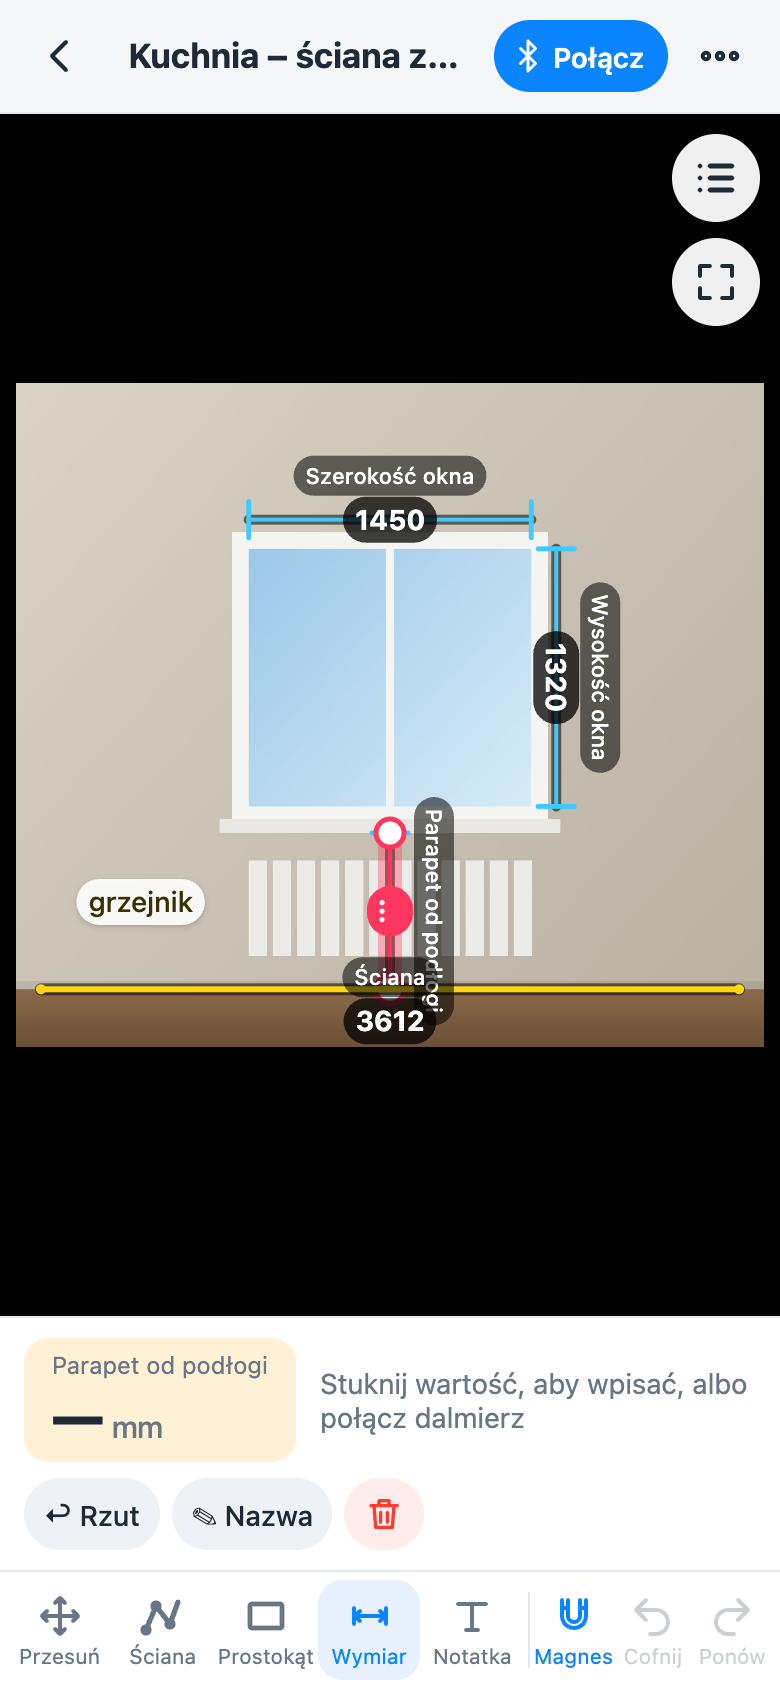
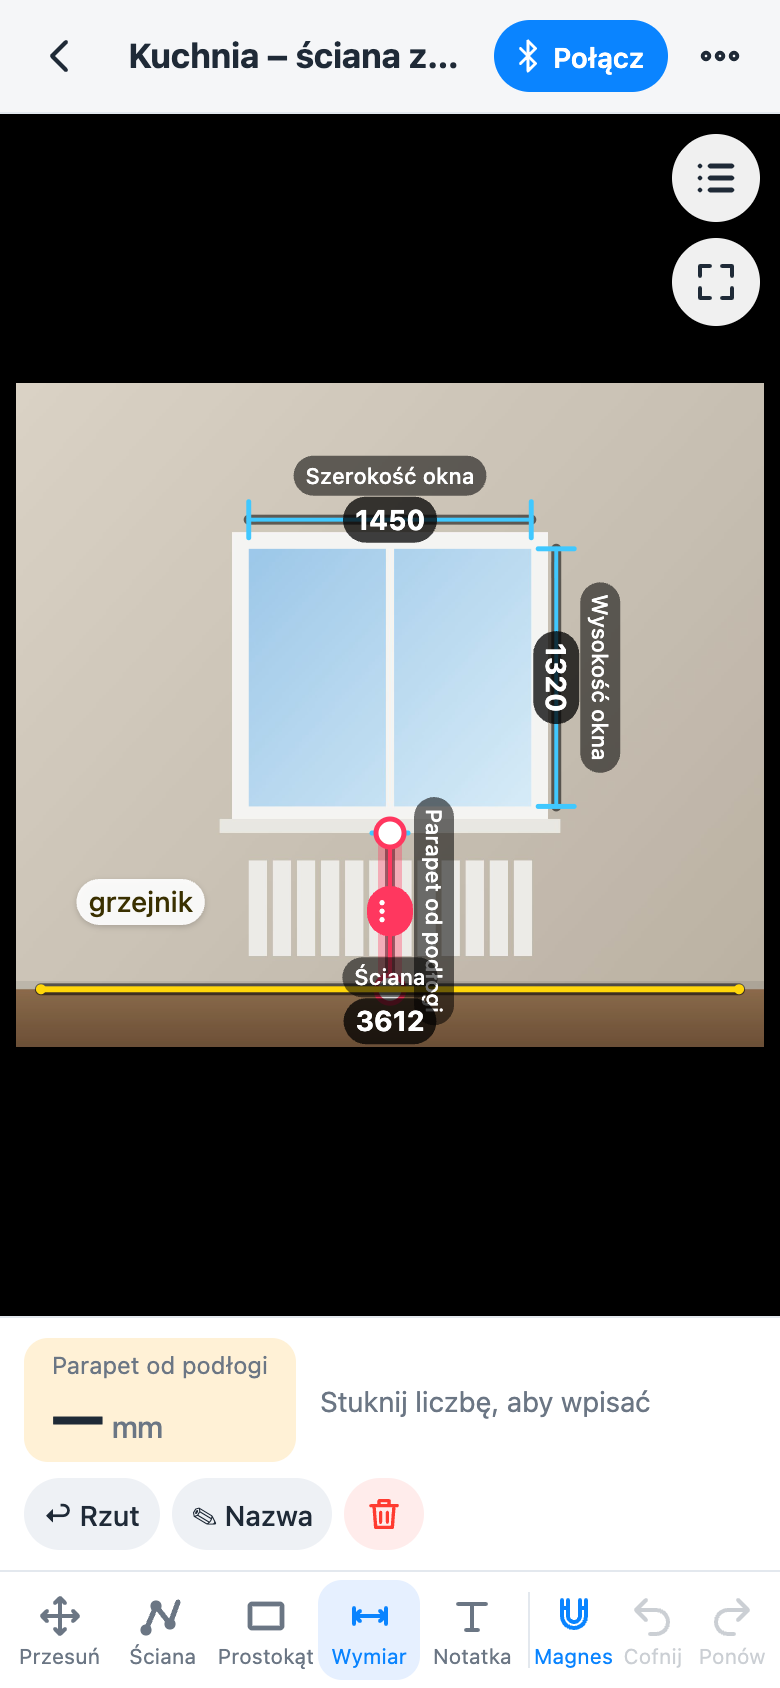
feat: compact editor panel on small screens

Changed region(s): [[0.4, 0.8009, 0.8615, 0.8626], [0.8923, 0.8009, 0.9538, 0.8318]]

diff --git a/js/app.js b/js/app.js
@@ -11,7 +11,7 @@ import { exportBackup, importBackup, pickFile } from './backup.js';
 import { $, h, toast, ask, confirmBox, menu, sheet, beep, shareFile } from './ui.js';
 import { seedDemo } from './demo.js';
 
-export const APP_VERSION = '1.1.0';
+export const APP_VERSION = '1.1.1';
 
 const app = $('#app');
 const settings = { unit: 'mm', sound: true, sim: false };
@@ -452,6 +452,7 @@ async function showProject(id) {
   window.dalmierzEditor = ed; // Debug handle for console and tests.
 
   let saveTimer = null, thumbTimer = null, deleted = false;
+  let tipOpen = false; // full tool tip in the panel
   const save = async () => {
     p.updatedAt = Date.now();
     await db.put('projects', p);
@@ -645,31 +646,32 @@ async function showProject(id) {
             <small>${esc(e.name || `Odcinek ${idx}`)}</small>
             <b>${e.v ? fmt(e.v, settings.unit) : '—'}<i>${settings.unit}</i></b>
           </button>
-          <div class="p-hint ${live ? 'live' : ''}">${live ? '<span class="pulse"></span>Naciśnij pomiar na dalmierzu' : 'Stuknij wartość, aby wpisać, albo połącz dalmierz'}</div>
+          <div class="p-hint ${live ? 'live' : ''}">${live ? '<span class="pulse"></span>Zmierz dalmierzem' : 'Stuknij liczbę, aby wpisać'}</div>
           ${!ed.photo && s.shape.style !== 'dim' ? `<button class="cam-btn ${e.photo ? 'on' : ''}" data-wall-photo aria-label="Zdjęcie ściany">${ICON.camera}<small>${e.photo ? 'Zdjęcie' : '+ Zdjęcie'}</small></button>` : ''}
         </div>
         <div class="p-actions">
           ${readChips}
           ${parent ? `<button class="chip" data-parent>↩ Rzut</button>` : ''}
           ${!ed.photo && s.shape.style !== 'dim' ? '<button class="chip" data-add-mark>+ Punkt</button>' : ''}
-          <button class="chip" data-edge-name>${e.name ? '✎ Nazwa' : '+ Nazwa'}</button>
-          ${!ed.photo && edgeCount(s.shape) > 1 ? `<button class="chip" data-shape-name>${s.shape.name ? esc(s.shape.name) : '+ Nazwa kształtu'}</button>` : ''}
+          <button class="chip" data-edge-name>${e.name || s.shape.name ? '✎ Nazwa' : '+ Nazwa'}</button>
           ${!ed.photo && edgeCount(s.shape) > 1 ? '<button class="chip" data-fitshape>Dopasuj</button>' : ''}
           <button class="chip danger icon" data-delmenu aria-label="Usuń">${ICON.trash}</button>
         </div>
         ${m ? `<div class="p-metrics">Pole <b>${m.approx ? '≈ ' : ''}${fmtArea(m.area)}</b> · Obwód <b>${fmt(m.perimeter, settings.unit, true)}</b>
           ${warnings(s.shape, m)}</div>` : ''}`;
     } else {
-      const hints = {
-        hand: 'Przeciągnij, aby przesunąć widok. Zaznacz kształt, potem przeciągnij go albo jego punkt.',
-        line: 'Przeciągnij palcem, aby narysować ścianę. Zacznij od końca linii, aby rysować dalej. Połącz z początkiem, aby zamknąć pomieszczenie.',
-        rect: 'Przeciągnij po skosie, aby narysować prostokąt. Potem przesuń rogi.',
-        dim: 'Przeciągnij, aby dodać linię wymiaru, np. wysokość okna albo przekątną.',
-        text: 'Stuknij w miejsce na rysunku, aby dodać notatkę.',
+      // Short tip in one line. Tap it to see the full text.
+      const tips = {
+        hand: ['Przeciągnij: przesuń widok lub kształt', 'Przeciągnij, aby przesunąć widok. Zaznacz kształt, potem przeciągnij go albo jego punkt.'],
+        line: ['Przeciągnij palcem, aby narysować ścianę', 'Zacznij od końca linii, aby rysować dalej. Połącz z początkiem, aby zamknąć pomieszczenie.'],
+        rect: ['Przeciągnij po skosie: prostokąt', 'Potem przesuń rogi.'],
+        dim: ['Przeciągnij: linia wymiaru', 'Np. wysokość okna albo przekątna.'],
+        text: ['Stuknij w rysunek, aby dodać notatkę', ''],
       };
+      const [short, more] = tips[ed.tool];
       const recent = readings.slice(0, 4);
       html = `${parent ? `<div class="p-actions top"><button class="chip" data-parent>↩ Rzut: ${esc(parent.name)}</button></div>` : ''}
-        <p class="p-tip">${hints[ed.tool]} Dwa palce: przesuń i powiększ.</p>
+        <button class="p-tip one ${tipOpen ? 'open' : ''}" data-tip><span>${short}${tipOpen ? `. ${more ? `${more} ` : ''}Dwa palce: przesuń i powiększ.` : ''}</span><i>${tipOpen ? '×' : 'i'}</i></button>
         ${recent.length ? `<div class="p-actions"><small class="muted">Odczyty:</small>${recent.map((r) => `<span class="chip ghost">${fmt(r.mm, settings.unit, true)}</span>`).join('')}</div>` : ''}`;
     }
     panel.innerHTML = html;
@@ -716,13 +718,24 @@ async function showProject(id) {
       if (v === 'shape') ed.deleteShape();
     });
     panel.querySelector('[data-edit-text]')?.addEventListener('click', () => editText(s.shape));
+    panel.querySelector('[data-tip]')?.addEventListener('click', () => { tipOpen = !tipOpen; renderPanel(); });
+    // One chip for both names: wall name and shape (room) name.
     panel.querySelector('[data-edge-name]')?.addEventListener('click', async () => {
-      const n = await ask('Nazwa odcinka', s.shape.edges[s.edge].name, { placeholder: 'np. ściana z oknem', suggestions: ['Szerokość', 'Wysokość', 'Głębokość', 'Okno', 'Drzwi', 'Wnęka', 'Przekątna'] });
-      if (n != null) ed.renameEdge(n);
-    });
-    panel.querySelector('[data-shape-name]')?.addEventListener('click', async () => {
-      const n = await ask('Nazwa kształtu', s.shape.name || '', { placeholder: 'np. Kuchnia', suggestions: NAME_HINTS });
-      if (n != null) ed.renameShape(n);
+      const e = s.shape.edges[s.edge];
+      let what = 'edge';
+      if (!ed.photo && edgeCount(s.shape) > 1) {
+        what = await menu('Nazwa', [
+          { label: 'Nazwa ściany', value: 'edge', hint: e.name || 'brak' },
+          { label: 'Nazwa pomieszczenia', value: 'shape', hint: s.shape.name || 'brak' },
+        ]);
+      }
+      if (what === 'edge') {
+        const n = await ask('Nazwa odcinka', e.name, { placeholder: 'np. ściana z oknem', suggestions: ['Szerokość', 'Wysokość', 'Głębokość', 'Okno', 'Drzwi', 'Wnęka', 'Przekątna'] });
+        if (n != null) ed.renameEdge(n);
+      } else if (what === 'shape') {
+        const n = await ask('Nazwa pomieszczenia', s.shape.name || '', { placeholder: 'np. Kuchnia', suggestions: NAME_HINTS });
+        if (n != null) ed.renameShape(n);
+      }
     });
     panel.querySelector('[data-fitshape]')?.addEventListener('click', () => {
       if (ed.fitSelectedShape()) toast('Kształt dopasowany do wymiarów', 'ok');

diff --git a/css/app.css b/css/app.css
@@ -107,7 +107,7 @@ small { display: block; color: var(--muted); font-size: 13px; }
 
 .panel {
   background: var(--card); border-top: 1px solid var(--line); padding: 10px 12px;
-  min-height: 64px; max-height: 40vh; overflow-y: auto; z-index: 4;
+  min-height: 44px; max-height: 40vh; overflow-y: auto; z-index: 4;
 }
 .p-row { display: flex; align-items: center; gap: 12px; }
 .p-value { text-align: left; background: #f1f4f8; border-radius: 12px; padding: 6px 14px; min-width: 132px; }
@@ -131,6 +131,11 @@ small { display: block; color: var(--muted); font-size: 13px; }
 .p-field b { font-size: 21px; font-variant-numeric: tabular-nums; }
 .p-field.missing { background: #fff1d6; }
 .p-field.on { border-color: #ff375f; background: #fff; }
+.p-tip.one { display: flex; align-items: center; gap: 8px; width: 100%; text-align: left; margin: 0; min-height: 24px; }
+.p-tip.one span { flex: 1; min-width: 0; white-space: nowrap; overflow: hidden; text-overflow: ellipsis; }
+.p-tip.one.open span { white-space: normal; }
+.p-tip.one i { flex: none; width: 22px; height: 22px; border-radius: 11px; border: 1.5px solid currentColor; display: grid; place-items: center; font: 600 13px/1 Georgia, serif; font-style: italic; }
+.p-tip.one.open i { font: 600 15px/1 -apple-system, sans-serif; }
 .p-tip.small { font-size: 13px; margin-top: 6px; }
 .m-sym { width: 30px; height: 30px; border-radius: 50%; color: #fff; font-weight: 800; font-size: 13px; display: grid; place-items: center; flex: none; }
 .m-sym.span { border-radius: 6px; height: 14px; }
